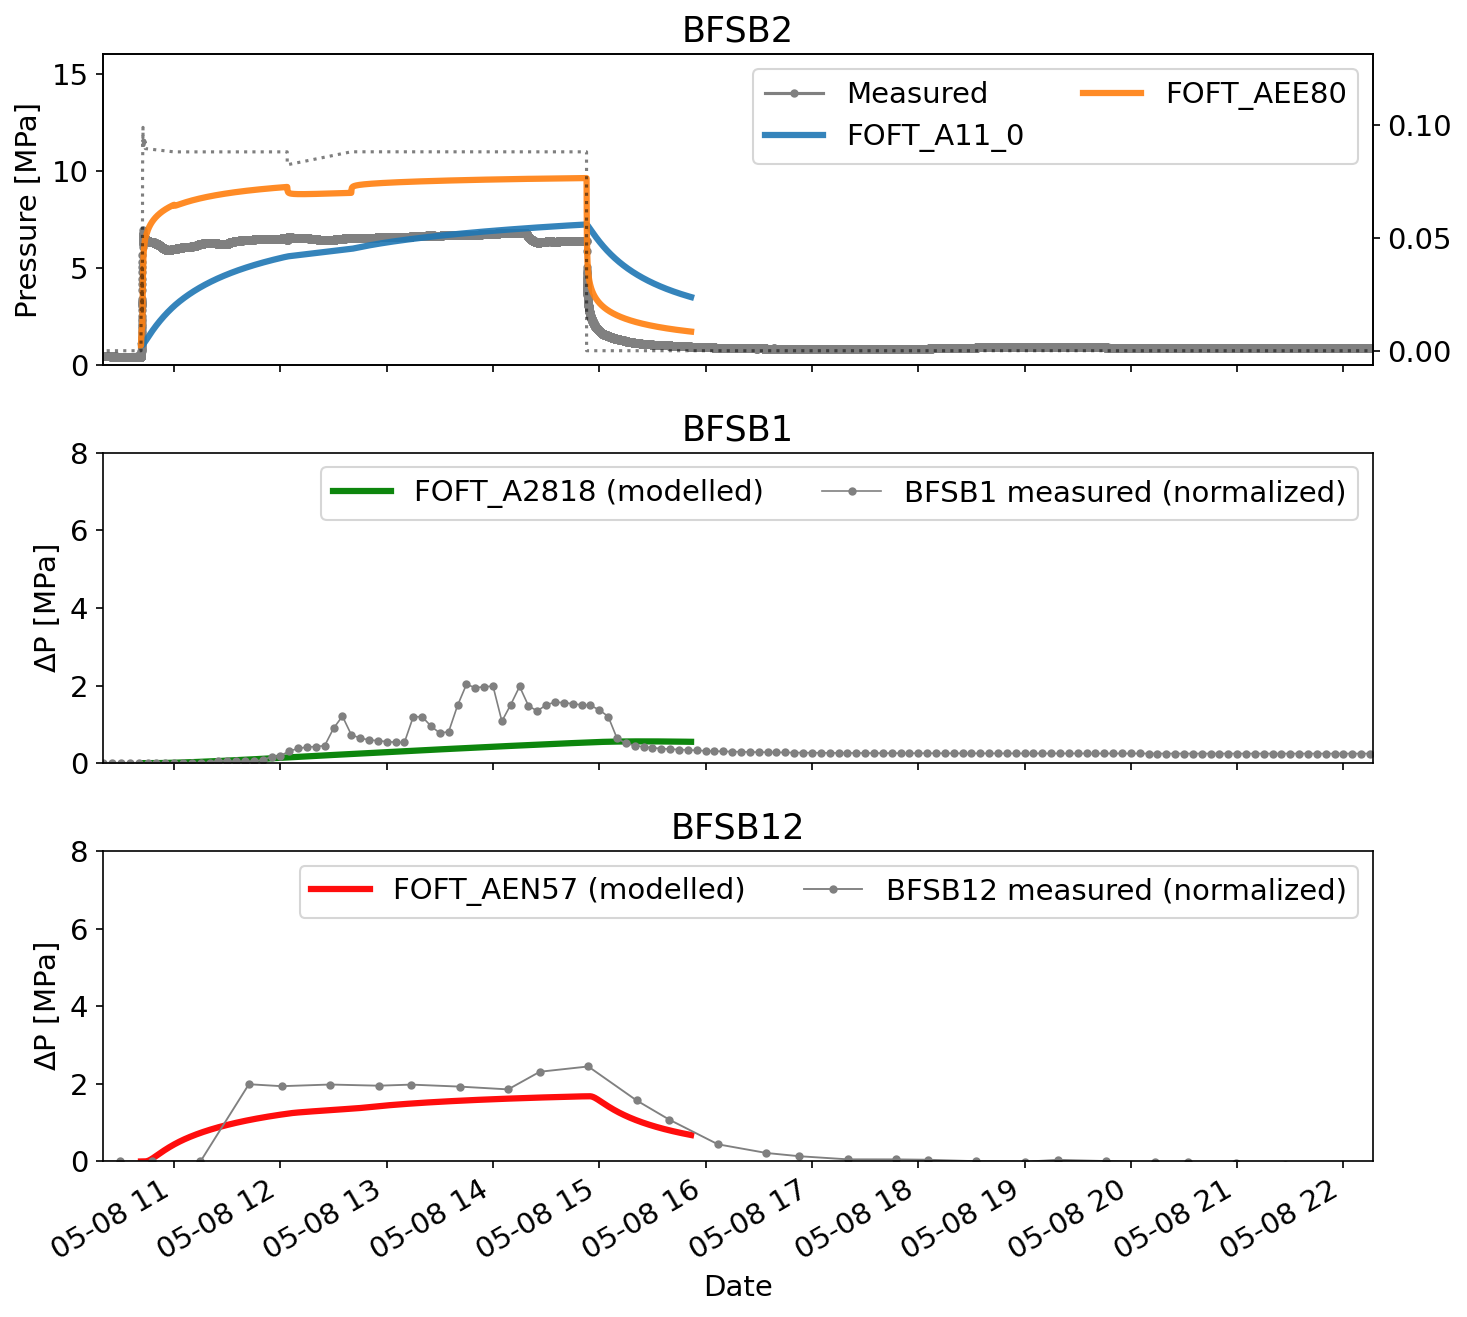
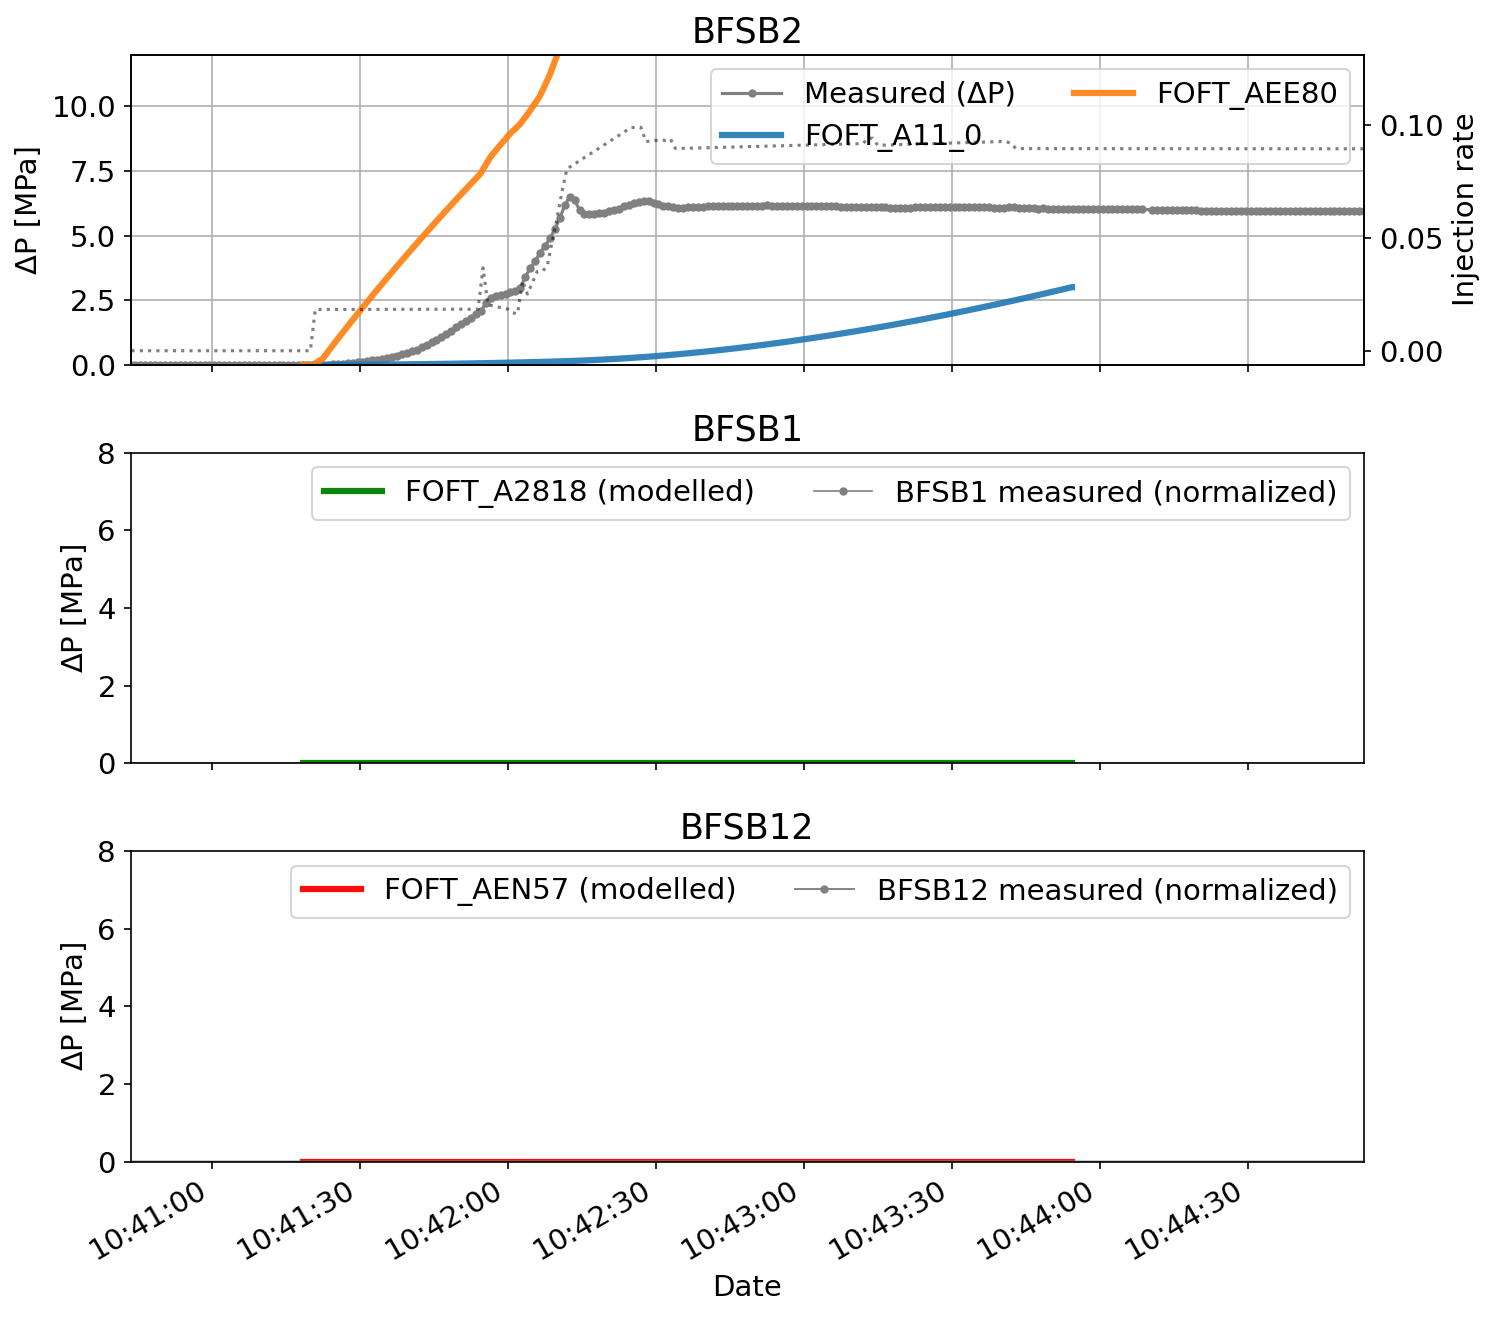
infile writteN

diff --git a/foft_plotter.py b/foft_plotter.py
@@ -74,8 +74,8 @@ rates_csv["UTC"] = pd.to_datetime(rates_csv["UTC"], utc=True, errors="coerce").d
 
 dates = rates_csv["UTC"]  # already datetime, no need to convert again
 
-xmin = dates[91000]
-xmax = dates[134000]
+xmin = dates[92250]
+xmax = dates[92500]
 
 def normalize_by_first_visible(t, y, xmin):
     """
@@ -93,47 +93,71 @@ def normalize_by_first_visible(t, y, xmin):
     return y - y.iloc[idx]
 
  
+# ---------------- TOP: measured + FOFTs as ΔP ----------------
+
+# Measured series (absolute pressure) -> normalize to ΔP
+rates_csv["UTC"] = pd.to_datetime(rates_csv["UTC"], utc=True, errors="coerce").dt.tz_localize(None)
+dates = rates_csv["UTC"]
+
+p_meas = pd.to_numeric(rates_csv.iloc[:, 1], errors="coerce")  # measured pressure column
+m_meas = dates.notna() & p_meas.notna()
+
+dates_meas = dates[m_meas]
+p_meas = p_meas[m_meas]
+
+# normalize by first visible point (so ΔP=0 at xmin)
+p_meas_norm = normalize_by_first_visible(dates_meas, p_meas, xmin)
 
 ax_top.plot(
-    dates,
-    rates_csv.iloc[:, 1],
+    dates_meas,
+    p_meas_norm,
     ".-",
     color="grey",
-    label="Measured",
+    label="Measured (ΔP)"
 )
 
+# OPTIONAL: if you want to keep injection rates on the twin axis, keep this block
 ax_top2 = ax_top.twinx()
-
 ax_top2.plot(
-    date_series,
-    rates_csv1.iloc[:,1],
+    date_series.dt.tz_localize(None),   # make tz-naive to match dates_meas
+    pd.to_numeric(rates_csv1.iloc[:, 1], errors="coerce"),
     ":",
     color="black",
-    label="injection rates",
-    alpha=0.5,
+    label="Injection rates",
+    alpha=0.5
 )
+ax_top2.set_ylabel("Injection rate")  # adjust if units known
 
-
+# FOFT curves: use p_norm instead of p_kPa
 for f in foft_files:
     stem = f.stem
     if stem in (special_mid_stem, special_bot_stem):
-        continue  # skip; those go to mid/bot
-    df_foft = load_foft_to_kpa(f, start_utc)
+        continue
+
+    df_foft = load_foft_to_kpa(f, start_utc)  # returns p_kPa and p_norm
     if not df_foft.empty:
         ax_top.plot(
-            df_foft["t_utc"],
-            df_foft["p_kPa"],
+            df_foft["t_utc"].dt.tz_localize(None),  # make tz-naive to match axis
+            df_foft["p_norm"],
             "-",
             lw=3.0,
             alpha=0.9,
             label=stem
         )
 
-ax_top.set_ylabel("Pressure [MPa]")
-ax_top.set_ylim(0, 16)
-#ax_top.axhline(1, color='black', alpha=0.3, ls=':')
-ax_top.legend(loc="upper right", ncol=2, fontsize=14)
+ax_top.set_ylabel("ΔP [MPa]")
 ax_top.set_title("BFSB2")
+ax_top.grid(True)
+
+# pick sensible y-lims for ΔP (change as you like)
+ax_top.set_ylim(0, 12)
+
+# keep your xlim window
+ax_top.set_xlim(xmin, xmax)
+
+# legend: only for ax_top (not the twin axis)
+ax_top.legend(loc="upper right", ncol=2, fontsize=14)
+
 
 
 # ---------------- MIDDLE: FOFT_A5Y21 + BFSB1_meas ----------------

diff --git a/infile_writer_simpleINJEC.py b/infile_writer_simpleINJEC.py
@@ -171,7 +171,8 @@ parameters["rocks"] = {
     "EDZ": {
 
         "porosity": 0.96, #-, (4) 
-        "permeability": [1e-8, 1e-8, 1e-8],
+        "permeability": [1e-13, 1e-13, 1e-13],
+        "compressibility": 1.8e-6
     },
     "FAULT": {
         "porosity": 0.14,
